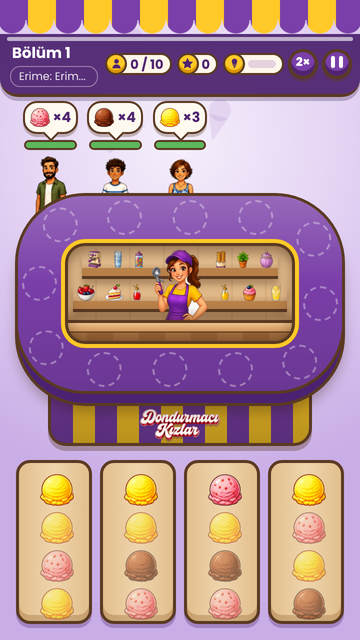
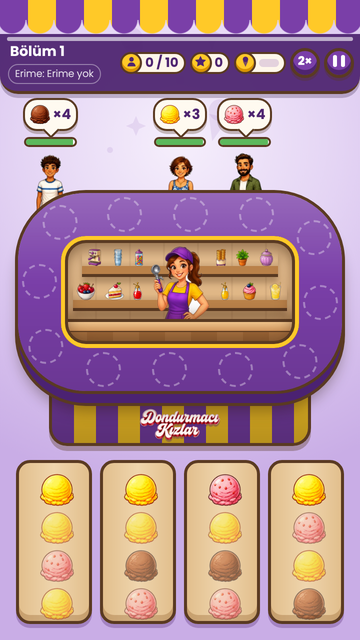
Arayüz: küçük telefonda üst şerit sığıyor; yol haritası güncel
Claude-Session: https://claude.ai/code/session_01CqmBopmm2oAGpcb7ghL8DV

diff --git a/src/stil.css b/src/stil.css
@@ -1420,6 +1420,10 @@ html, body {
   .ust .kose-dugme { width: 30px; height: 30px; }
   .ust-sag { gap: 3px; }
   .son-dugmeler .dugme { font-size: 16px; padding: 9px 13px 14px; }
+  /* Küçük telefonda erime yazısı kısalmasın diye biraz küçük. */
+  .erime-dugme { font-size: 10px; padding: 1px 6px; letter-spacing: -0.1px; }
+  .bolum-no { font-size: 14px; }
+  .sayac .cubuk { width: 22px; }
 }
 /* Sayaç hapları biraz daha küçük: erime düğmesinin yazısı büyük telefonda tam sığsın. */
 .sayac { margin-left: 8px; padding-right: 6px; height: 22px; }
@@ -1435,4 +1439,10 @@ html, body {
   .fis-satir { line-height: 1.6; }
   .fis .yildiz { width: 36px; height: 36px; }
   .fis .yildizlar .yildiz:nth-child(2) { width: 42px; height: 42px; transform: translateY(-5px); }
+}
+/* Küçük telefon (en sonda dursun ki yukarıdakileri ezsin). */
+@media (max-width: 380px) {
+  .sayac .cubuk { width: 20px; }
+  .sayac { margin-left: 7px; padding-right: 5px; }
+  .ust { padding-left: 8px; padding-right: 6px; }
 }

diff --git a/docs/yol-haritasi.md b/docs/yol-haritasi.md
@@ -21,8 +21,10 @@ alttaki "Geçmiş notlar" bölümüne taşındı.
 - Oyunda **30 bölüm** var, hepsi oynanabilir. Bölüm 1–10 elle yazılmış bir
   tabloyla, 11–30 bir kuralla kuruluyor. Bölümlerdeki bütün sayılar **deneme
   değeri**; Kemal oynayıp söyleyince kesinleşir.
-- Şimdi: yeni arayüz (öneri PR #27; bütün ekranlar, külahlı logo, desenli mor
-  zemin). Bölümlere ve sayılara dokunmuyor. Kemal'in bakması bekleniyor.
+- Şimdi: yeni arayüz. İlk adım (düğmeler, giriş, Poppins) PR #27 ile ana
+  dala girdi. Bütün ekranlar, külahlı logo ve desenli mor zemin ikinci
+  öneride (`ajans/arayuz-tamami`); bölümlere ve sayılara dokunmuyor.
+  Kemal'in telefonda denemesi bekleniyor.
 - Sıradaki (sıra Oyun Şefi'nin önerisi): Kemal bölümleri **gruba göre**
   oynar, her grup için "kolay / zor / tamam" der: önce 1–10, sonra 11–20,
   sonra 21–30. Bir grup oturmadan sonrakinin sayıları değiştirilmez.
@@ -340,7 +342,7 @@ Yıldız sorusu ertelendi (Kemal, 22 Ekim: "Sonra bakariz simdiki kalsin"); "Kem
 
 5 Kasım 2026'ya kadar "Neredeyiz" bölümünde duran notlar, olduğu gibi.
 
-- Arayüz dili: bütün arayüz (5 Kasım 2026, öneri; PR #27). Kemal Pinterest'teki DK Lite görselleriyle "yeni arayüz hazırlığına gir" dedi; ilk adımda yalnız düğmeler değişince "tüm arayüz için bir güncelleme bekliyordum", "logoyu da külahlı logo yap", arka planlar için "Desenli mor zemin" ve "Hepsi tek pakette" dedi. Ne değişti (oynanış, sayılar değişmedi): giriş ekranında Kemal'in külahlı logosu ve koyu mor desenli zemin; oyun ekranının arkası açık lila desenli zemin (deniz manzarası yerine); bütün düğmeler şişkin hap düğme (yeşil ilerle, krem ikinci iş, mor yuvarlak, kırmızı ✕); ayarlar ve duraklatma pencerelerinde mor başlık şeridi ve köşede kırmızı ✕; üst şeritte simgeli sayaçlar; kalın hatlı müşteri balonları ve sütunlar; bölüm sonu fişinde külahlı logo, büyük yıldızlar, ikonlu düğmeler; bölüm haritasında mor üst şerit ve kalın taşlar; pencereler zıplayarak açılır; Poppins yazı tipi oyunda. Not ve ekran ekran liste: `docs/arayuz-dili.md`; ekran görüntüleri: `docs/ekran/arayuz-dili/`. Telefonda denenmedi.
+- Arayüz dili: bütün arayüz (5 Kasım 2026, öneri; ilk adım PR #27 ile birleşti, kalanı `ajans/arayuz-tamami` önerisinde). Kemal Pinterest'teki DK Lite görselleriyle "yeni arayüz hazırlığına gir" dedi; ilk adımda yalnız düğmeler değişince "tüm arayüz için bir güncelleme bekliyordum", "logoyu da külahlı logo yap", arka planlar için "Desenli mor zemin" ve "Hepsi tek pakette" dedi. Ne değişti (oynanış, sayılar değişmedi): giriş ekranında Kemal'in külahlı logosu ve koyu mor desenli zemin; oyun ekranının arkası açık lila desenli zemin (deniz manzarası yerine); bütün düğmeler şişkin hap düğme (yeşil ilerle, krem ikinci iş, mor yuvarlak, kırmızı ✕); ayarlar ve duraklatma pencerelerinde mor başlık şeridi ve köşede kırmızı ✕; üst şeritte simgeli sayaçlar; kalın hatlı müşteri balonları ve sütunlar; bölüm sonu fişinde külahlı logo, büyük yıldızlar, ikonlu düğmeler; bölüm haritasında mor üst şerit ve kalın taşlar; pencereler zıplayarak açılır; Poppins yazı tipi oyunda. Not ve ekran ekran liste: `docs/arayuz-dili.md`; ekran görüntüleri: `docs/ekran/arayuz-dili/`. Telefonda denenmedi.
 - Görsel iyileştirme, 1. küçük paket (4 Kasım 2026, öneri; Kemal: "sıradaki adım görsel iyileştirme"). Oynanış, sayılar ve yazılar değişmedi; yalnız görünüm. Ne değişti: bütün düğmeler (Başla, Bölümler, Devam et, Tekrar oyna, duraklatma menüsü, ayarlar seçenekleri, 2× ve duraklatma, Geri, haritadaki bölüm noktaları) basınca hafifçe aşağı iner, parmak kalkınca geri çıkar (önceden basınca hiçbir şey değişmiyordu); sütuna dokununca sütun kısa bir an sarı parlar ve hafifçe içe basılır (önceden yalnız ortadaki dondurmacı zıplıyordu); üst şeritteki 2× ve duraklatma düğmeleri öbür düğmeler gibi kalın kahverengi hatlı oldu; Ayarlar'da seçili seçenek artık kalınlaşıp iki satıra kaymıyor ("2 tur sonra" tek satır, üç seçenek aynı boyda); bölüm sonunda fişin altındaki "Bölümler" yazısı karartılmış zeminde daha okunur; telefonun üst çubuğu (Android) lila yerine tentedeki mor. Ekran görüntüleri: `docs/ekran-goruntuleri/gorsel-iyilestirme-04-11/`. Giriş ekranına dokunulmadı (Kemal Canva'da çizecek).
 - Belge tutarlılığı (3 Kasım 2026, öneri): README ve tasarım belgesindeki eski bölüm sayıları düzeltildi; oyunda değişen yok (ürün resimlerine ad eklendi).
 - Ekran görüntüleri (3 Kasım 2026, öneri): yayındaki oyundan gerçek ekran görüntüleri `docs/ekran-goruntuleri/` altında (telefon ve masaüstü; açılış, oynanış, bölüm sonu, bölüm haritası); liste `docs/ekran-goruntuleri/liste.json`. KKM'nin oyun sayfası bunları gösterecek. Oyunda değişen bir şey yok.
